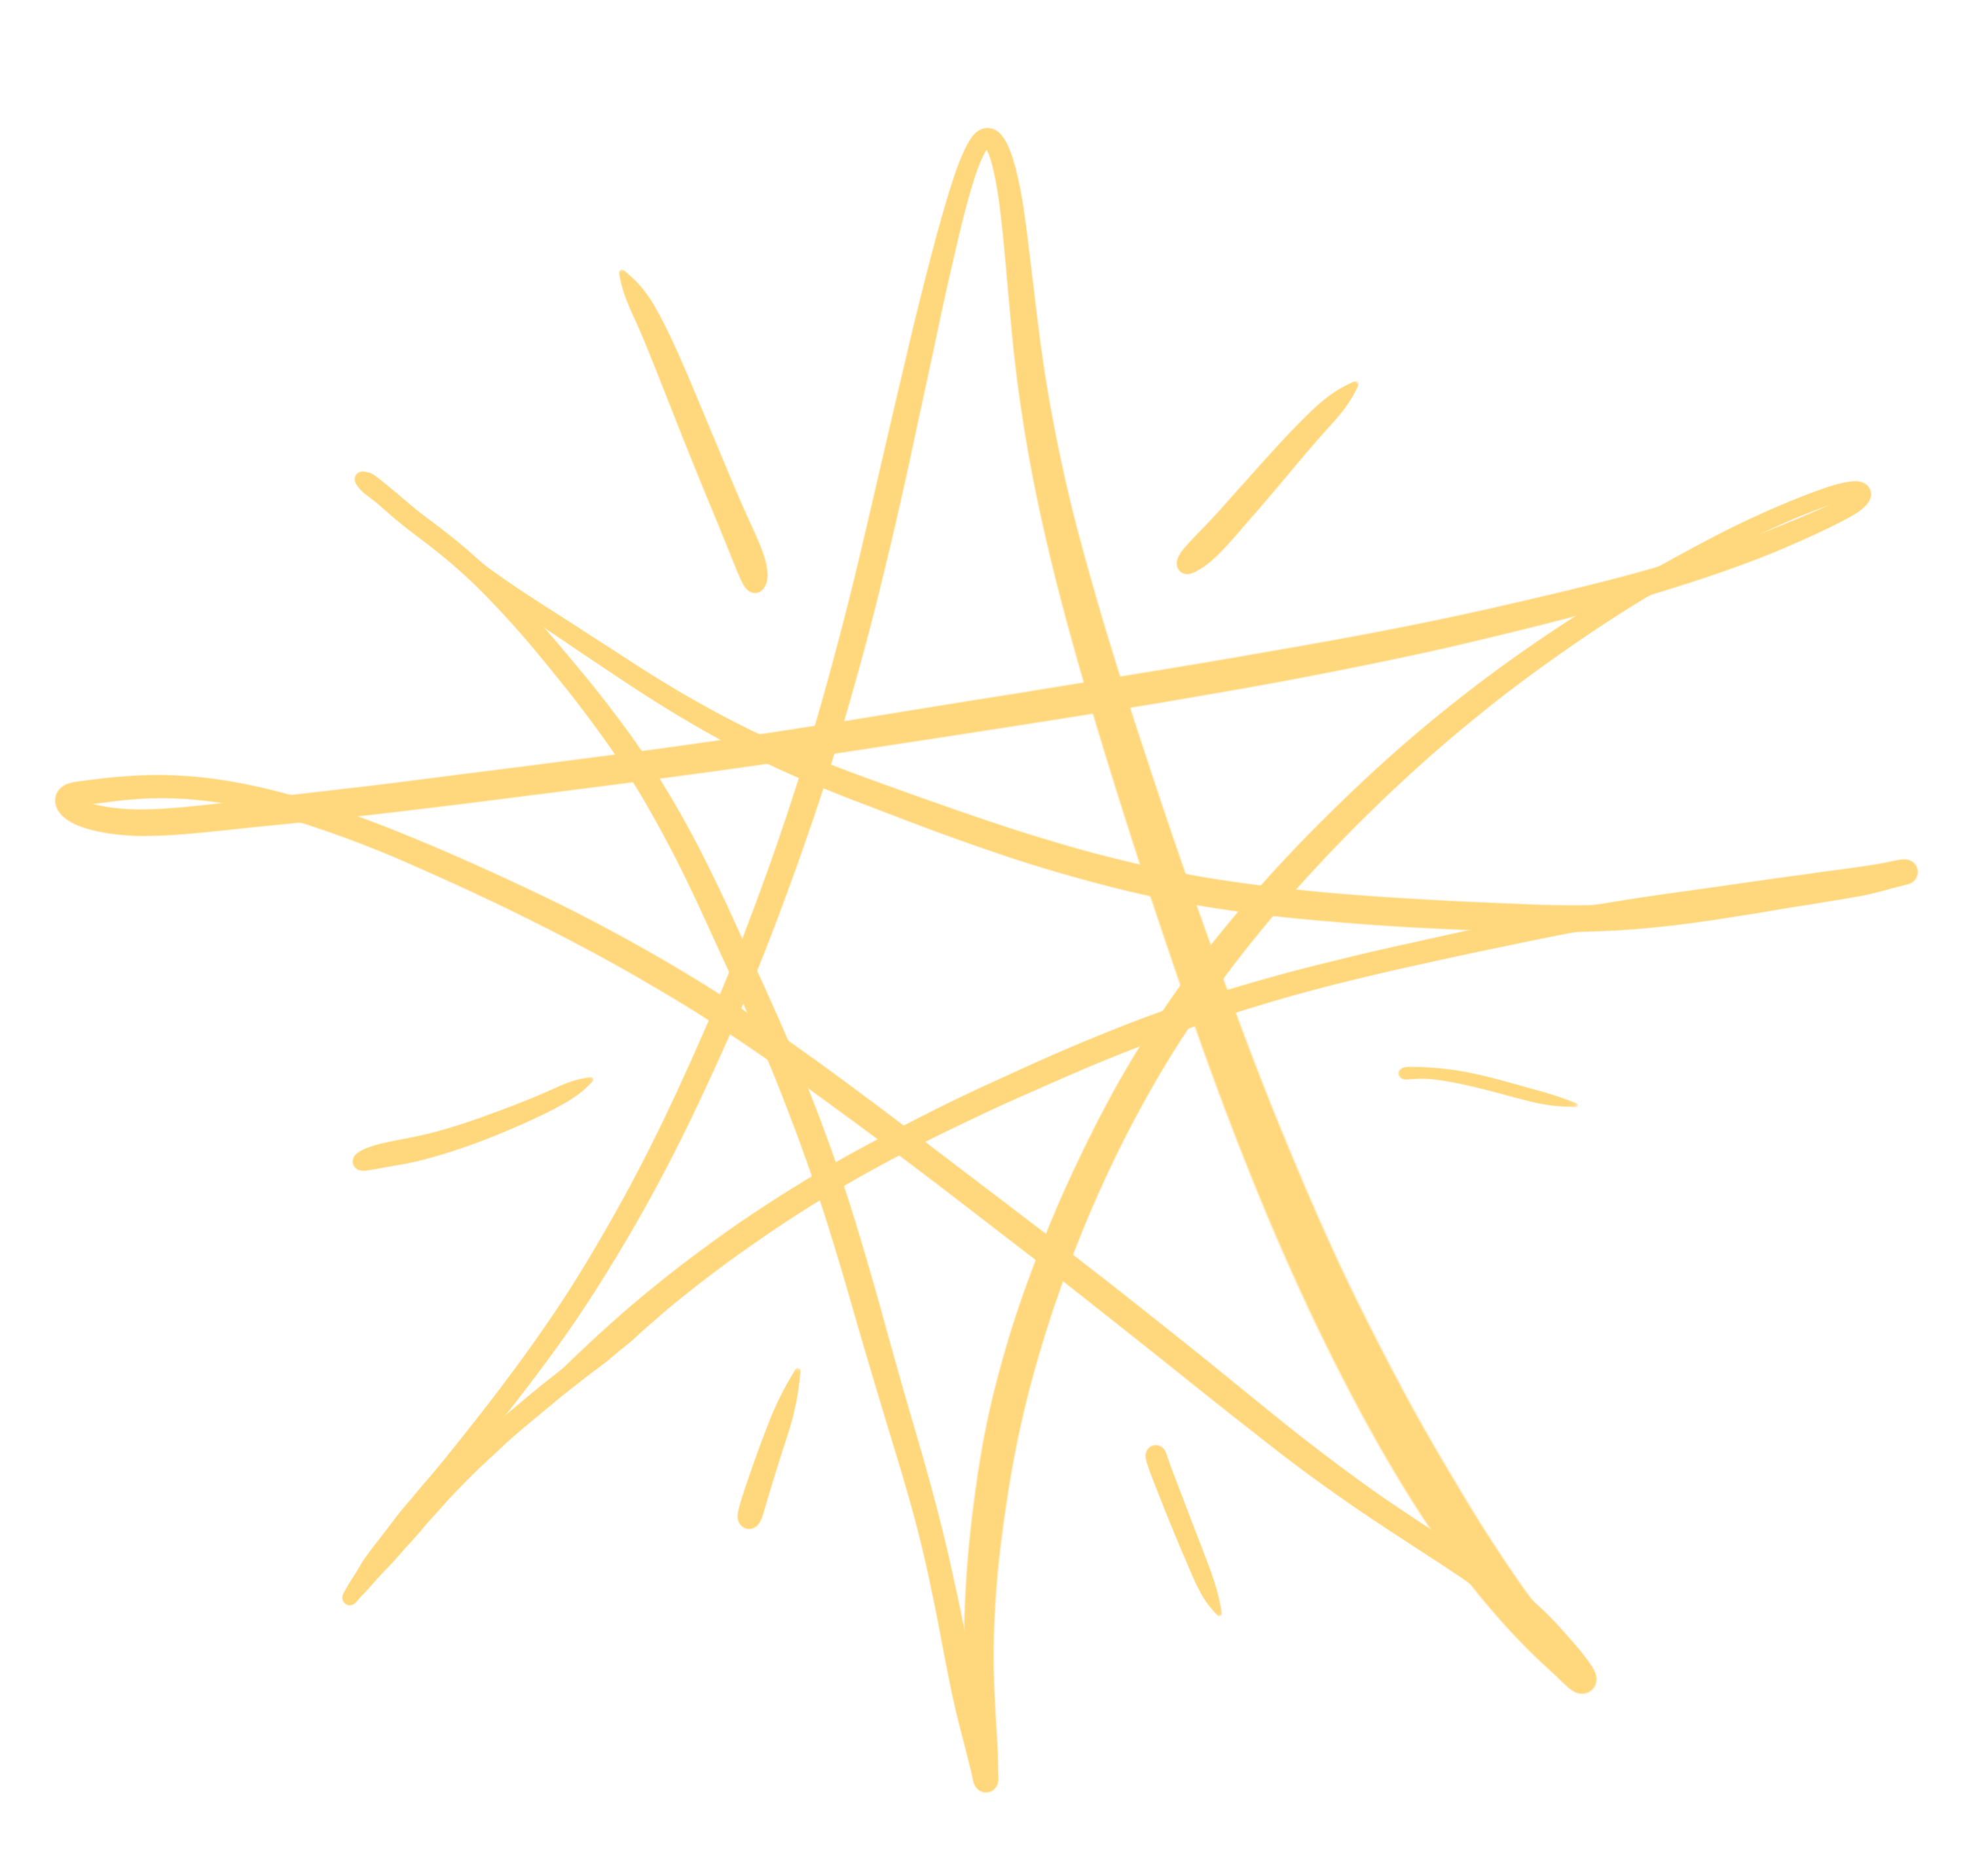
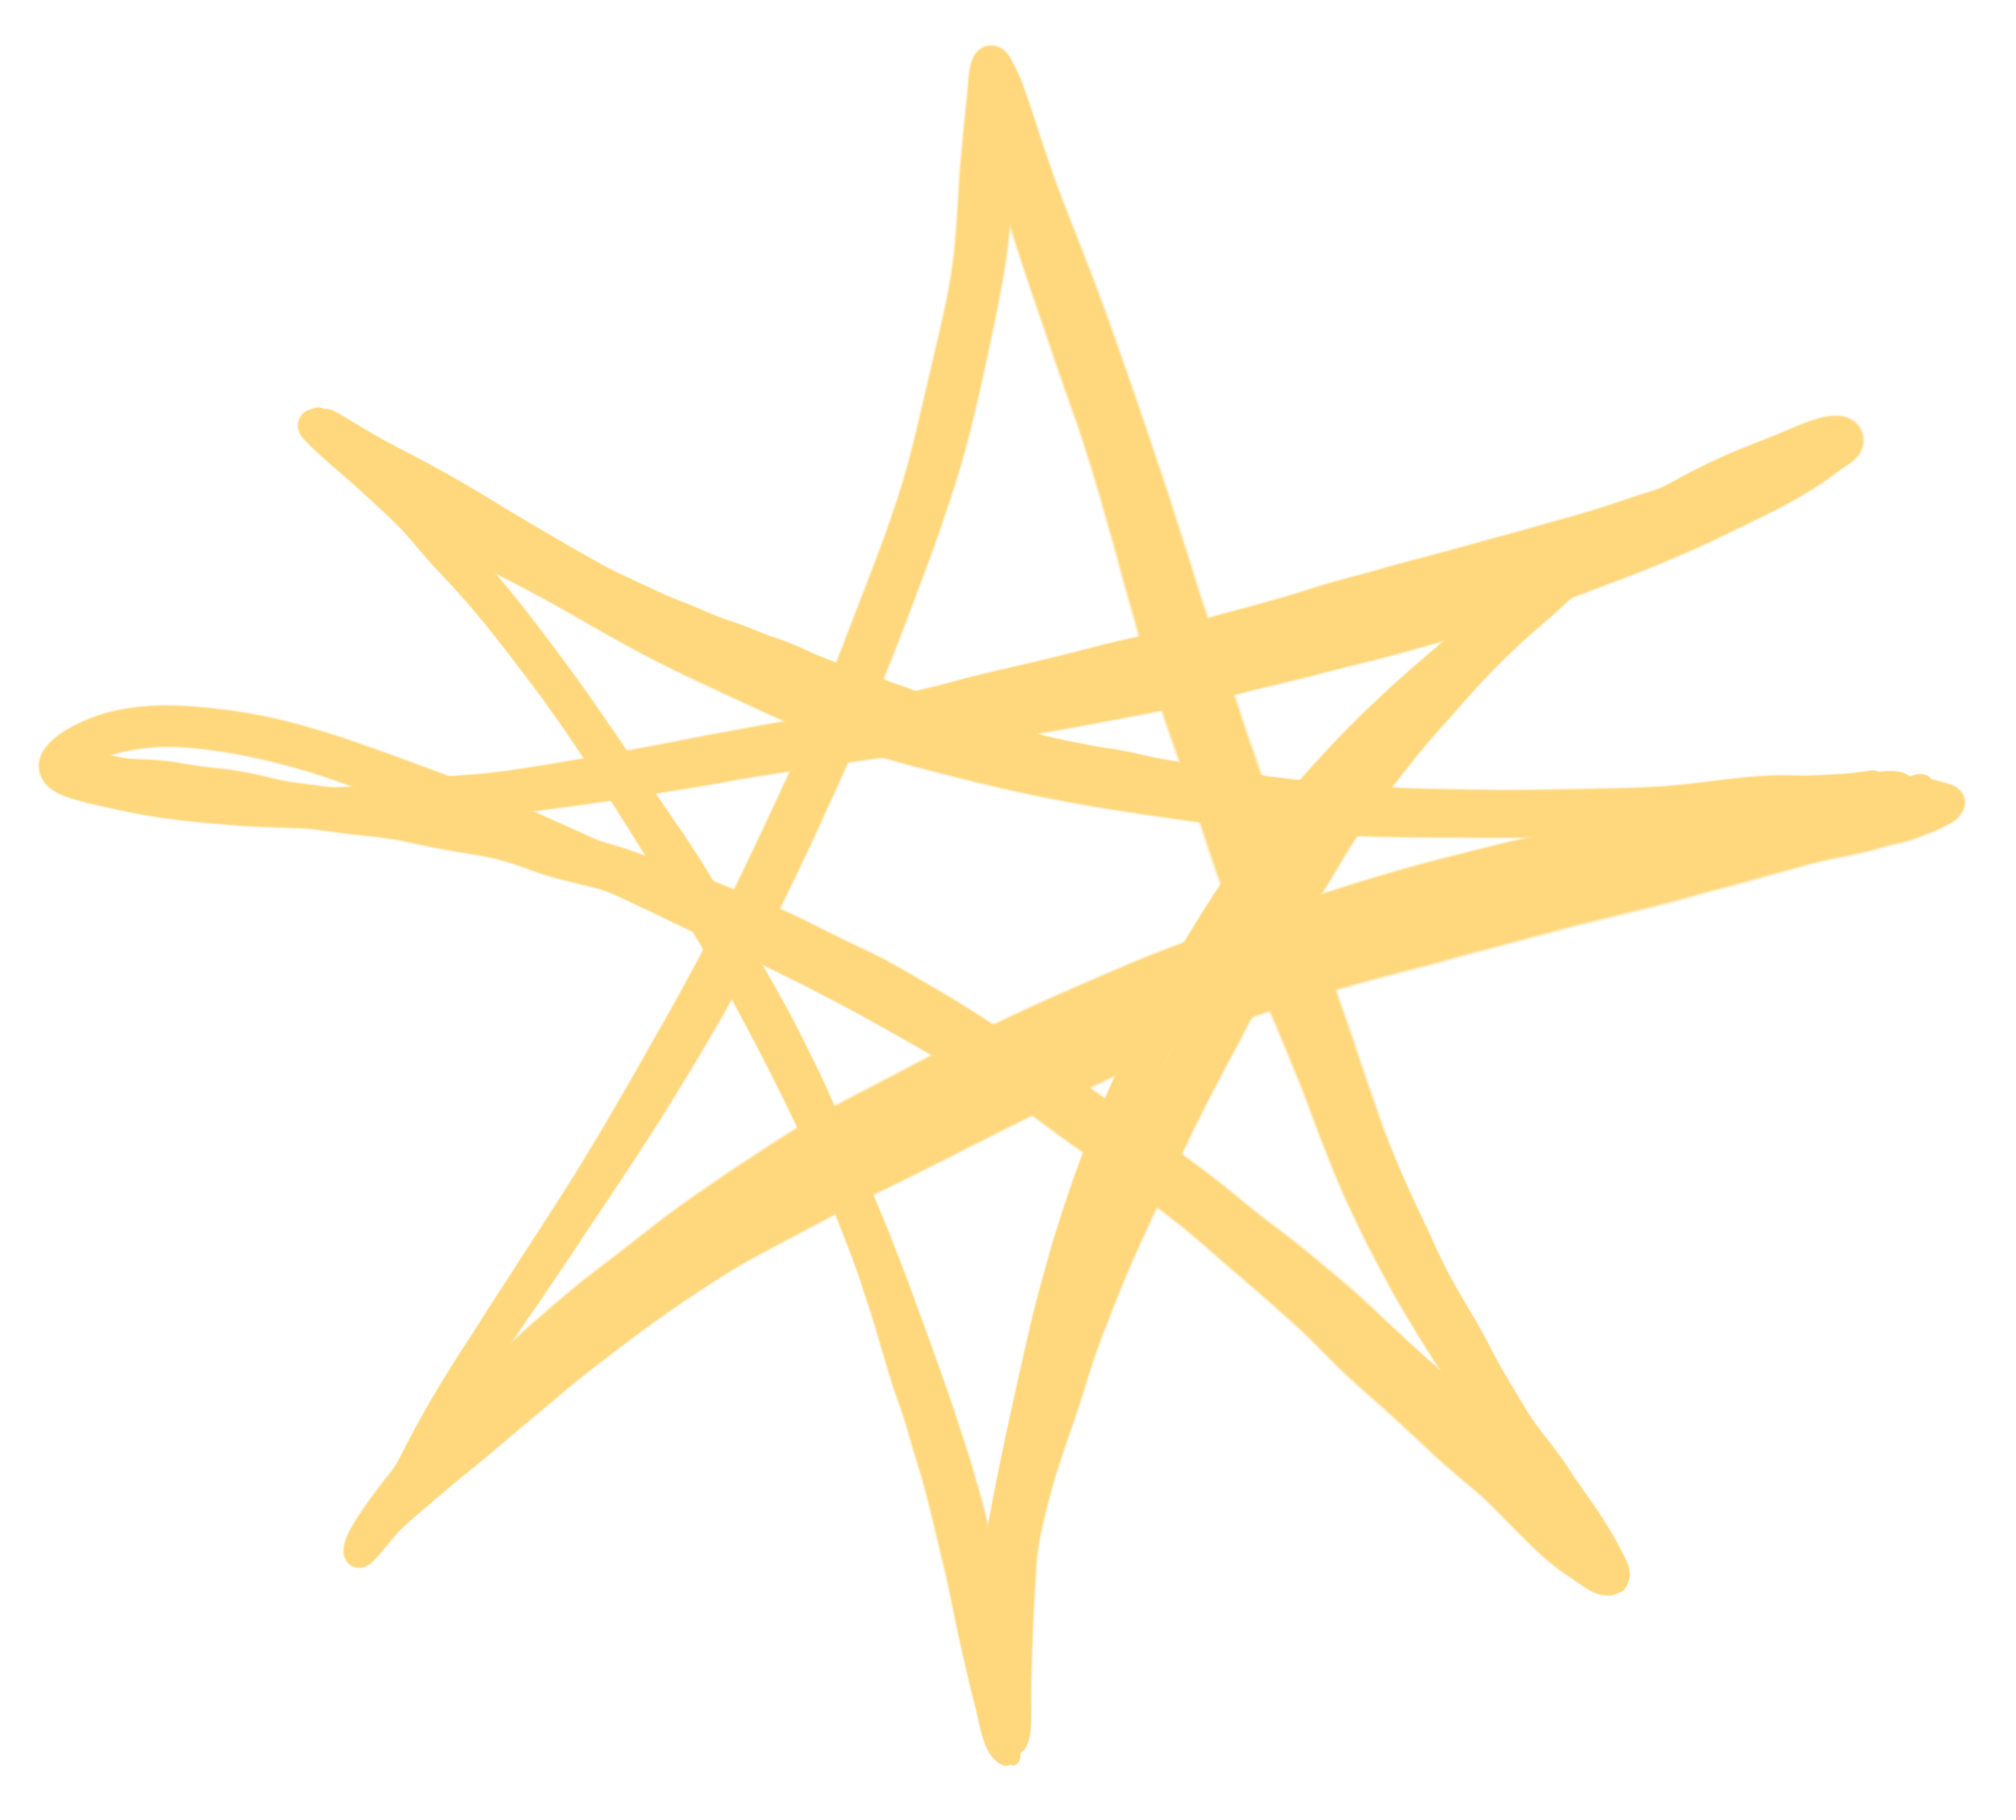
added images to ribboned page

diff --git a/styles.css b/styles.css
@@ -9,6 +9,10 @@ body{
     background: #fff;
     color: #080808;
 }
+
+.spacer {
+    height: 3rem;
+}
     
 /* Styles for featured film page */
 .feature-video {
@@ -839,7 +843,7 @@ nav ul li a:hover::after{
 }
 
 .project-skills {
-    flex-basis: 40%;
+    flex-basis: 35%;
 }
 
 /* .project-skills-list {
@@ -850,9 +854,10 @@ nav ul li a:hover::after{
 } */
 
 .description {
-    flex-basis: 55%;
+    flex-basis: 60%;
     font-size: 26px;
     font-weight: 300;
+    line-height: 1.25;
 }
 
 .project-skills-list {
@@ -867,10 +872,10 @@ nav ul li a:hover::after{
 
 .project-skills-list li {
     display: flex;
-    align-items: flex-start;
+    align-items: center;
     gap: 1rem;
     
-    padding: 1.25rem 1.5rem;
+    padding: 10px 5px;
     background: #3d82c2;
     border-radius: 12px;
     
@@ -887,8 +892,8 @@ nav ul li a:hover::after{
 
 .project-skills-list li::before {
   content: ""; 
-  width: 20px;
-  height: 20px;
+  width: 40px;
+  height: 40px;
   flex-shrink: 0;
 
   background-image: url('images/star_icon.png'); 
@@ -896,7 +901,7 @@ nav ul li a:hover::after{
   background-repeat: no-repeat;
   background-position: center;
 
-  margin-right: 0.75rem; /* Space between bullet and text */
+  margin-left: 1rem; /* Space between bullet and text */
 }
 
 /* Typography styles inside the cards */
@@ -908,8 +913,21 @@ nav ul li a:hover::after{
   margin-bottom: 0.25rem;
 }
 
+.project-images-layout {
+    flex: 50%;
+    padding: 0 4px;
+}
 
+.project-images-layout img {
+    width: 100%;
+    height: auto;
+    display: block;
+    padding: 4px 0;
+}
 
+.project-section-container {
+    margin-top: 4rem;
+}
 
 .creative-media-container {
     padding: 0 5%;

diff --git a/ribboned.html b/ribboned.html
@@ -34,7 +34,9 @@
                             allowfullscreen></iframe>
                     </div>
                 </section>
-                
+
+                <div class="spacer"></div>
+
                 <section class="project-summary">
                     <div class="project-skills">
                         <ul class="project-skills-list">
@@ -51,10 +53,25 @@
                     </div>
                     <div class="description">
                         <p>A folklorico dancer constrained by her ribbon skirt and a quetzal bird tethered back move in parallel, entangled in a shared struggle for freedom.</p>
+                        <br>
+                        <p><i>Ribboned</i> was created as my final project for my Intermediate Animation course at Harvard; all frames were hand-drawn on TV Paint and edited in Premiere Pro.</p>
                     </div>
                 </section>
-                
 
+                <!-- storyboarding process -->
+                <section class="project-section-container">
+                    <div class="row">
+                        <div class="project-images-layout">
+                            <img src="images/ribboned-1.jpg" alt="Ribboned Animation Image 1">
+                        </div>
+                        <div class="project-images-layout">
+                            <img src="images/ribboned-2.jpg" alt="Ribboned Animation Image 2">
+                        </div>
+                        <div class="project-images-layout">
+                            <img src="images/ribboned-2.jpg" alt="Ribboned Animation Image 2">
+                        </div>
+                    </div>
+                </section>
                 
             </div>
         </main>